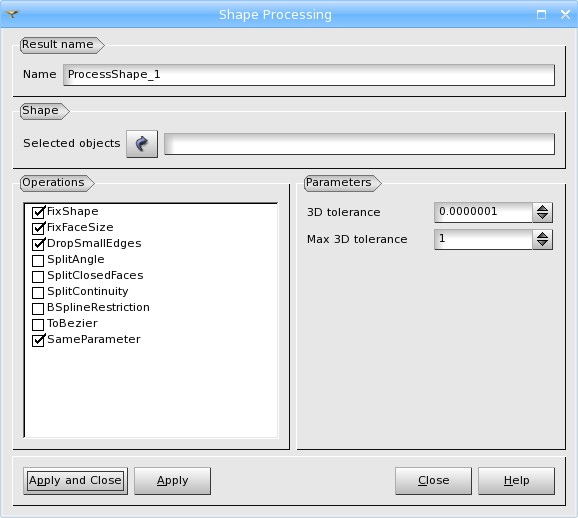
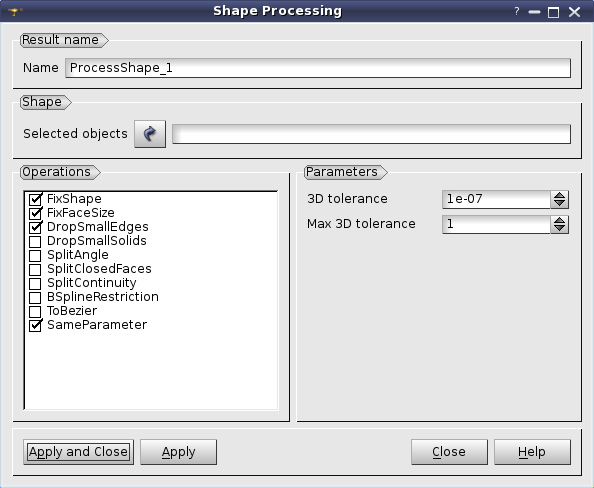
22763: [EDF] Shape processing
Add DropSmallSolids operator

Changed region(s): [[0.0, 0.0, 1.0, 0.9836]]

diff --git a/src/GEOMGUI/GEOM_msg_en.ts b/src/GEOMGUI/GEOM_msg_en.ts
@@ -6716,6 +6716,18 @@ Please close this message box and select edges for gluing</translation>
         <translation>Enabling this option may result in a very time-consuming operation for some input shapes.
 Would you like to continue?</translation>
     </message>
+    <message>
+        <source>WIDTH_FACTOR_TOL</source>
+        <translation>Width factor tol.</translation>
+    </message>
+    <message>
+        <source>VOLUME_TOL</source>
+        <translation>Volume tol.</translation>
+    </message>
+    <message>
+        <source>TO_MERGE_SOLIDS</source>
+        <translation>To merge solids</translation>
+    </message>
 </context>
 <context>
     <name>GEOMToolsGUI_DeleteDlg</name>

diff --git a/src/RepairGUI/RepairGUI_ShapeProcessDlg.h b/src/RepairGUI/RepairGUI_ShapeProcessDlg.h
@@ -34,9 +34,11 @@
 class DlgRef_1Sel;
 class SalomeApp_IntSpinBox;
 class SalomeApp_DoubleSpinBox;
-class QComboBox;
 class QCheckBox;
+class QComboBox;
 class QListWidget;
+class QListWidgetItem;
+class QStackedLayout;
 
 //=================================================================================
 // class    : RepairGUI_ShapeProcessDlg
@@ -87,6 +89,7 @@ private:
   
   DlgRef_1Sel*                       mySelectWdgt;
   QListWidget*                       myOpList;
+  QStackedLayout*                    myStack;
   
   SalomeApp_DoubleSpinBox*           myFixShapeTol3D;
   SalomeApp_DoubleSpinBox*           myFixShapeMaxTol3D;
@@ -120,7 +123,13 @@ private:
   SalomeApp_DoubleSpinBox*           myToBezierMaxTol;
   
   SalomeApp_DoubleSpinBox*           mySameParameterTol3D;
-  
+
+  QCheckBox*                         myDropSmallSolidsWidChk;
+  QCheckBox*                         myDropSmallSolidsVolChk;
+  SalomeApp_DoubleSpinBox*           myDropSmallSolidsWidTol;
+  SalomeApp_DoubleSpinBox*           myDropSmallSolidsVolTol;
+  QCheckBox*                         myDropSmallSolidsMergeChk;
+
 private slots:
   void                               onOk();
   bool                               onApply();
@@ -131,6 +140,7 @@ private slots:
   void                               selectionChanged();
   void                               selectClicked();
   void                               advOptionToggled( bool );
-};             
+  void                               operatorChecked( QListWidgetItem * item );
+};
 
 #endif // REPAIRGUI_SHAPEPROCESSDLG_H
